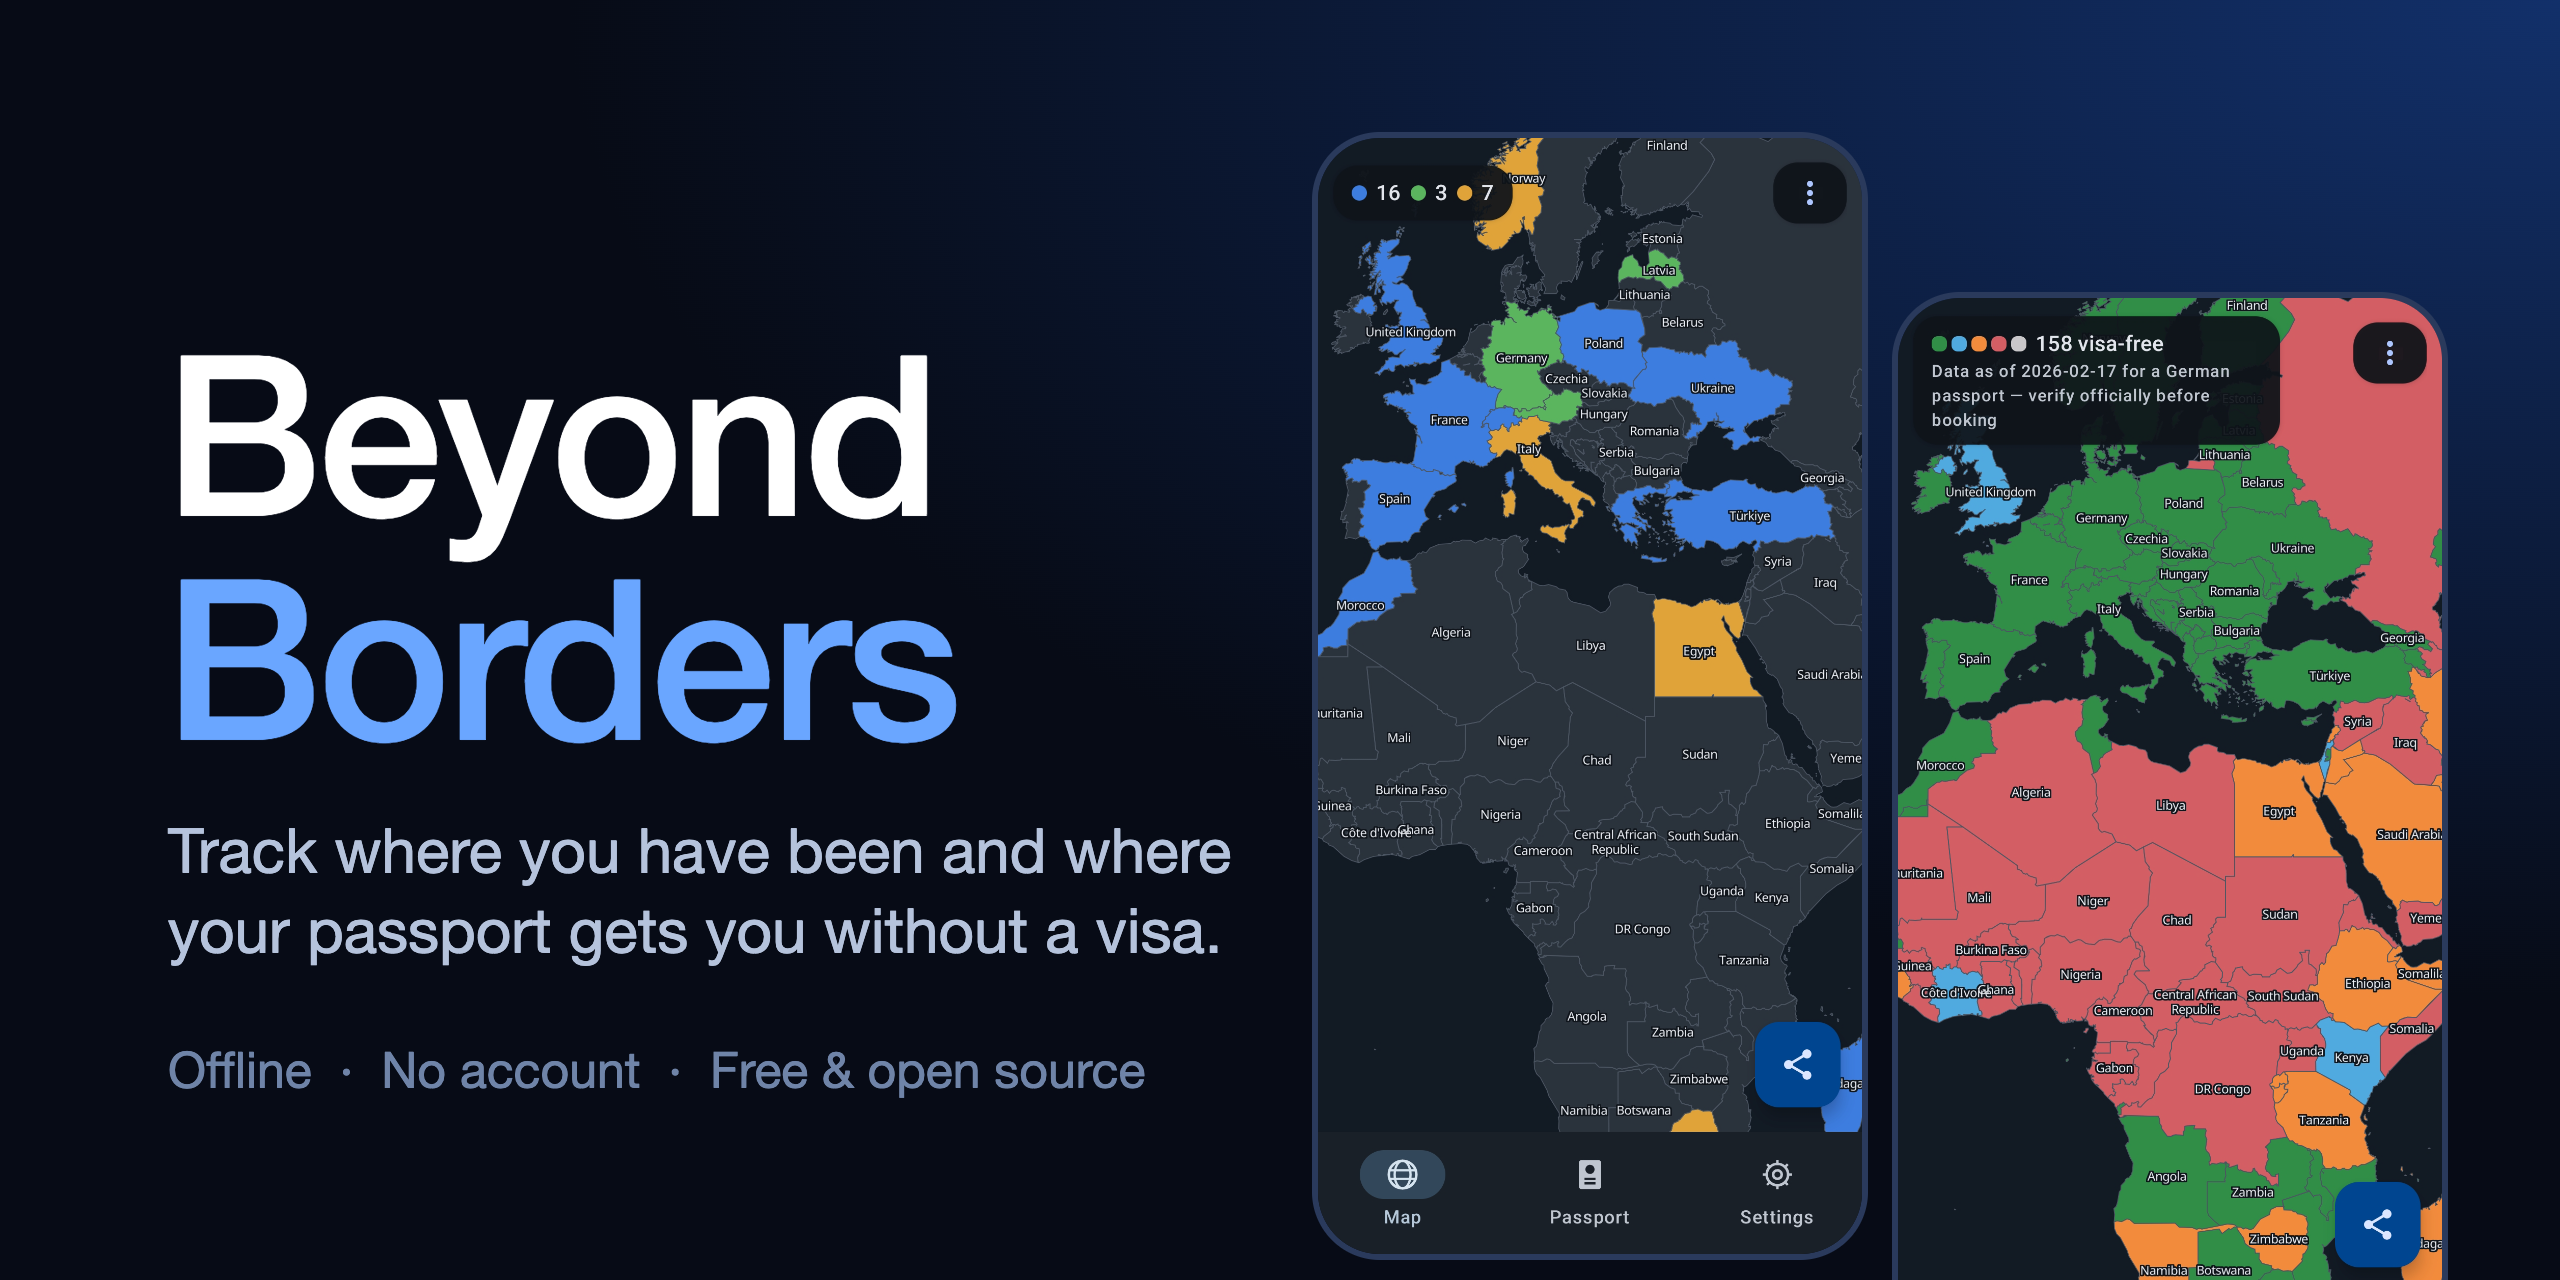
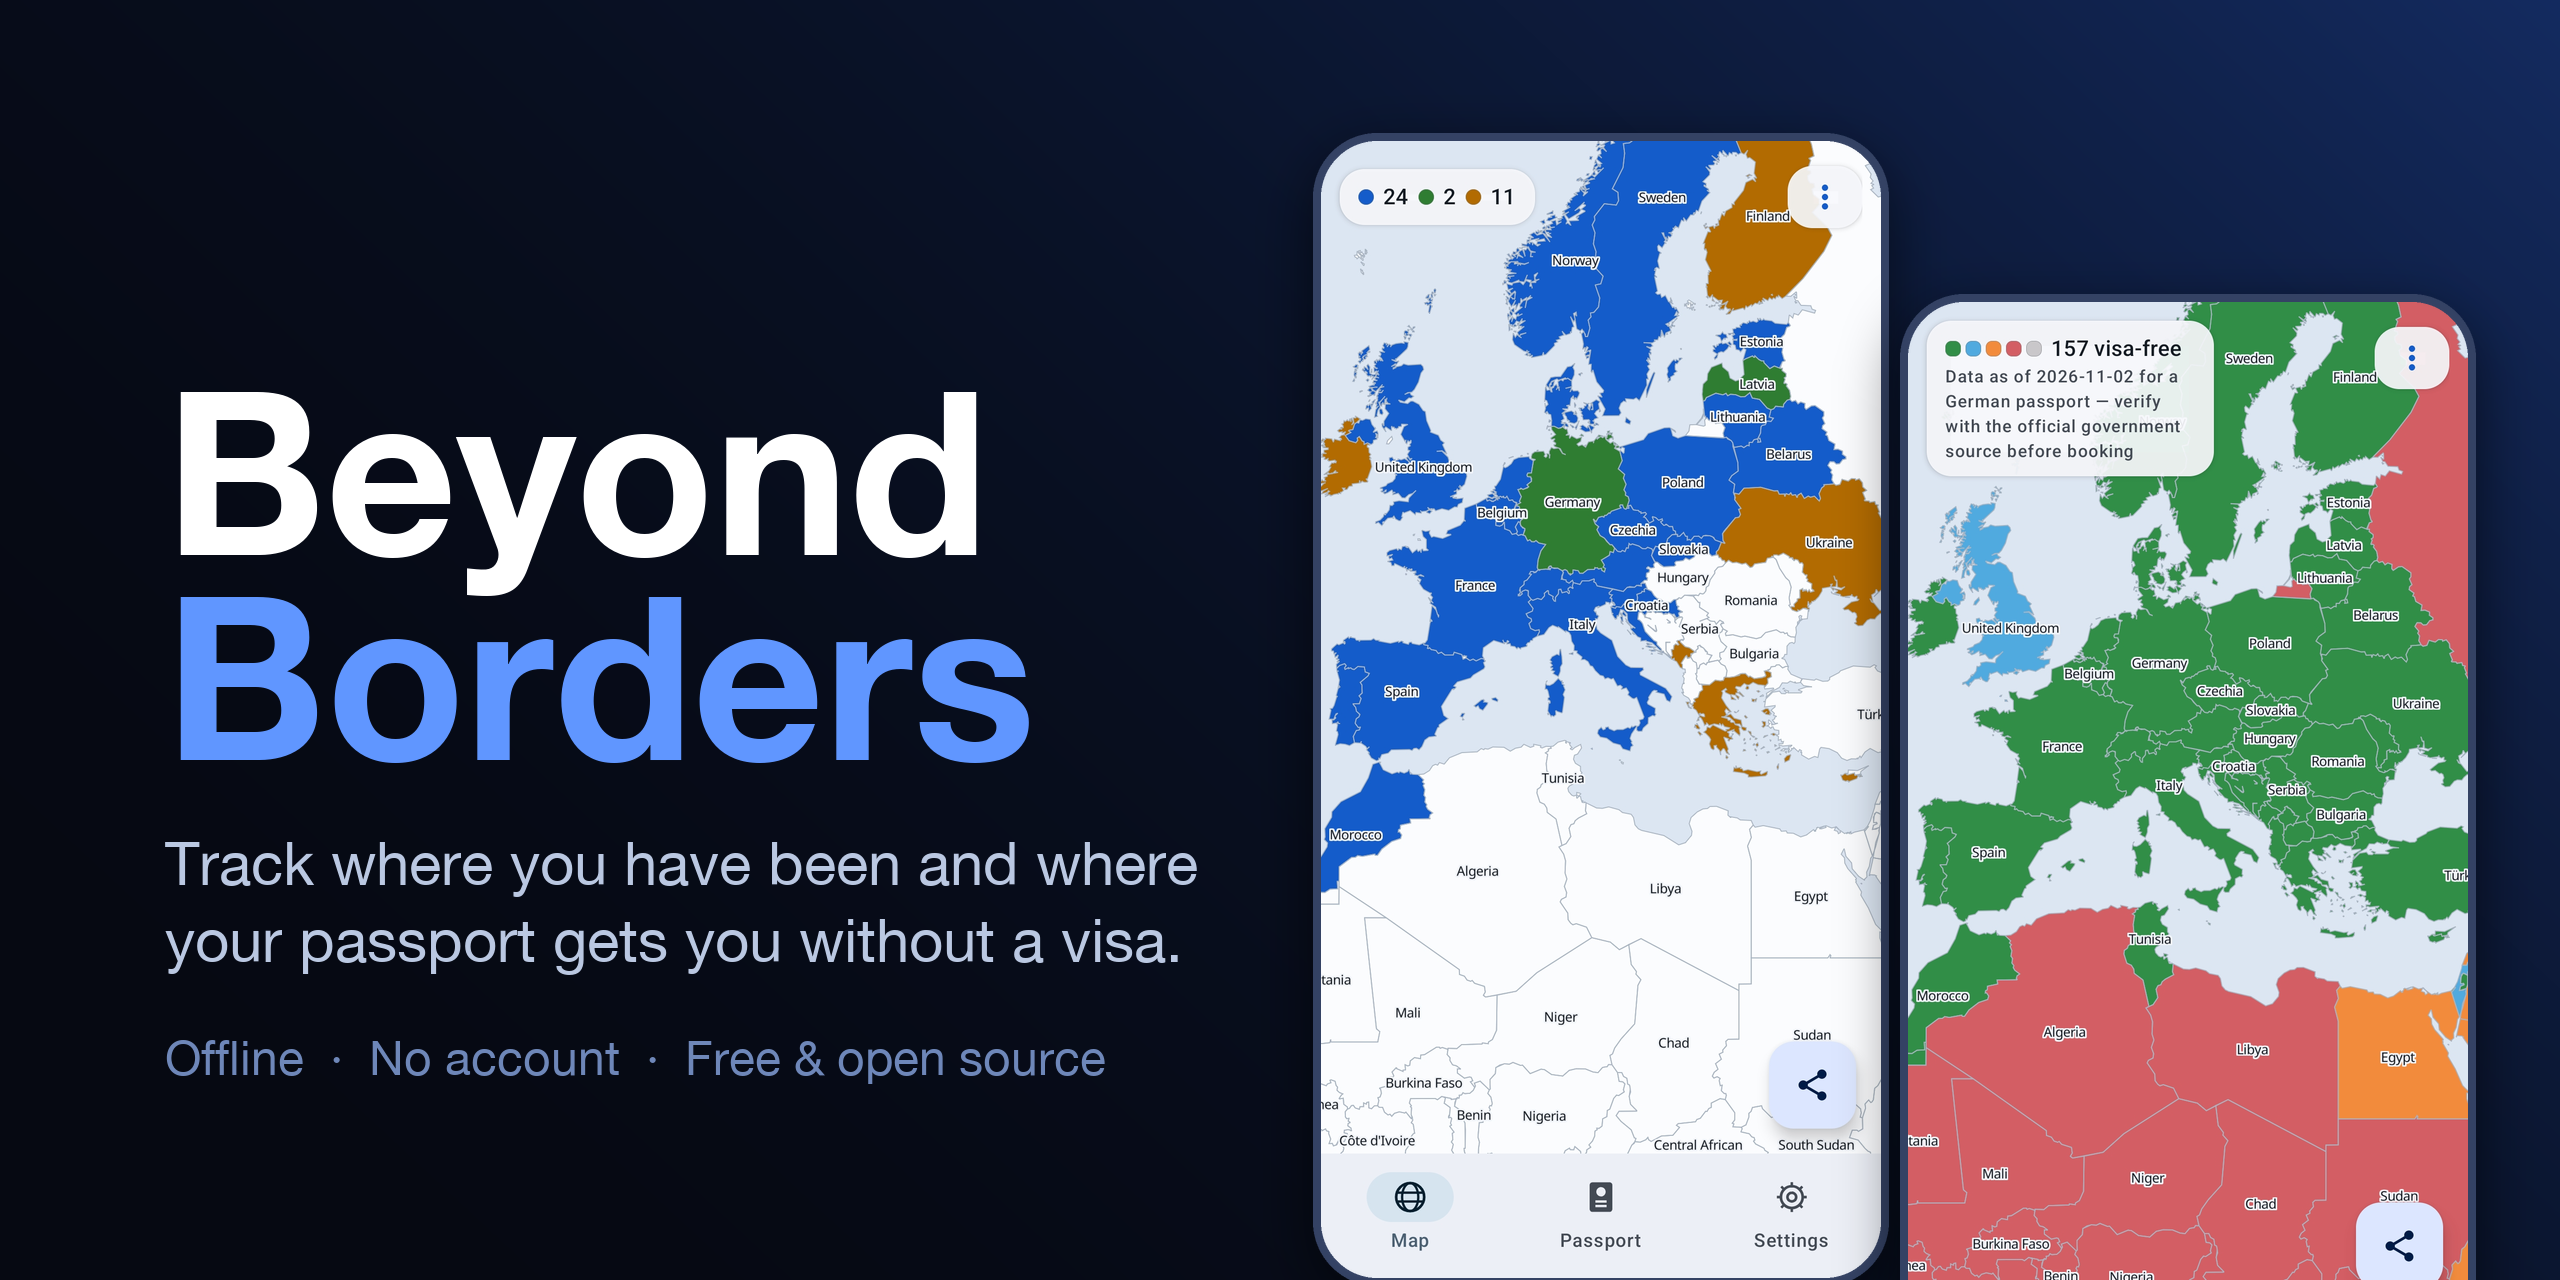
Start the travel legend compact, shorten German grouping labels, retake screenshots
The legend now opens as dots and counts and expands on tap. The German
passport grouping buttons read Kontinente/Regionen so they stay on one line.
README screenshots and the social preview are rebuilt from the 0.8.0 UI.

diff --git a/app/src/main/java/com/riedel/beyondborders/ui/map/MapScreen.kt b/app/src/main/java/com/riedel/beyondborders/ui/map/MapScreen.kt
@@ -231,8 +231,8 @@ fun MapScreen(
     val scope = rememberCoroutineScope()
     // rememberSaveable because the root disposes this screen on a tab switch (the
     // SaveableStateProvider above it restores these on return).
-    // Chips with names are the default; a tap collapses them to dots and bare counts.
-    var counterCompact by rememberSaveable { mutableStateOf(false) }
+    // Dots and bare counts are the default; a tap expands them to chips with names.
+    var counterCompact by rememberSaveable { mutableStateOf(true) }
     var visaLegendLabeled by rememberSaveable { mutableStateOf(false) }
     var searchOpen by rememberSaveable { mutableStateOf(false) }
     var searchQuery by rememberSaveable { mutableStateOf("") }

diff --git a/docs/FEATURES.md b/docs/FEATURES.md
@@ -131,8 +131,8 @@ row.
 ## The map controls
 
 The Search, Visa and Regions buttons sit together in one group, with a passport icon on
-the Visa button. The travel legend is labelled (Been, Lived, Want to) and a tap
-collapses it to coloured dots and bare counts. The visa lens uses its own
+the Visa button. The travel legend starts as coloured dots and bare counts; a
+tap expands it to labelled chips (Been, Lived, Want to). The visa lens uses its own
 palette, chosen to read on both the light and the dark base map rather than following
 the theme.
 
